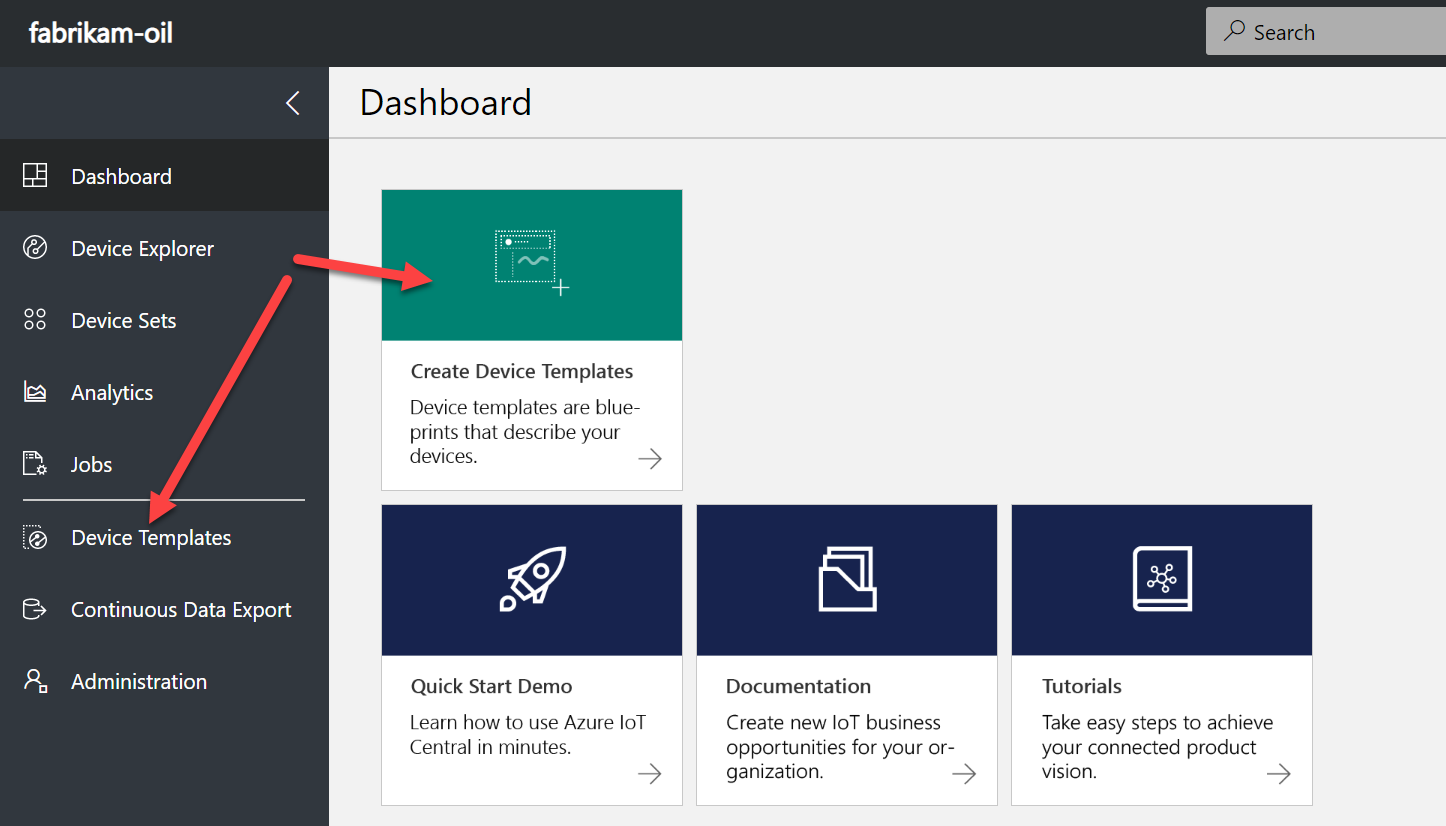
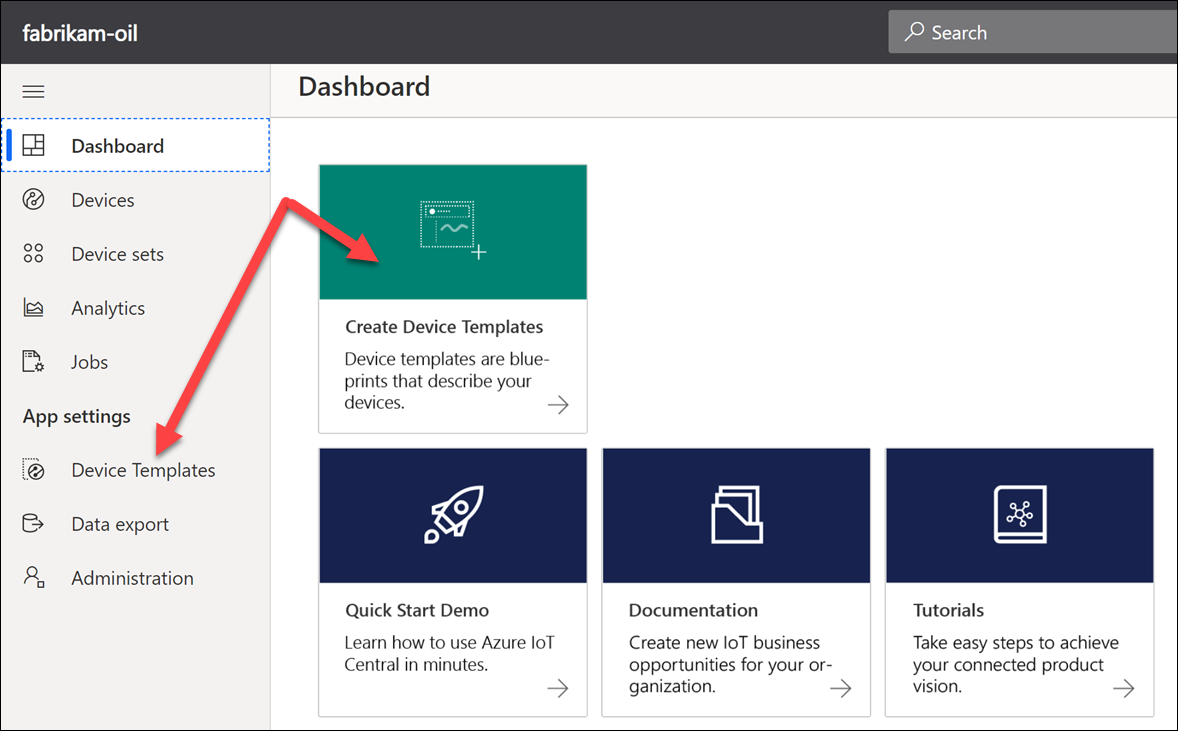
Updated task 3

diff --git a/Hands-on lab/HOL step-by step - Predictive Maintenance for remote field devices.md b/Hands-on lab/HOL step-by step - Predictive Maintenance for remote field devices.md
@@ -168,7 +168,7 @@ The telemetry being reported by the Fabrikam rod pumps are as follows, we will b
 
     b. *URL* - this will be the URL for your application, it needs to be globally unique.
 
-    c. *Application Template* - select *Preview application*.
+    c. *Application Template* - select *Legacy application (2018)*.
 
     d. *7 day free trial* - select this option to enable the free trial.
 
@@ -240,11 +240,11 @@ The telemetry being reported by the Fabrikam rod pumps are as follows, we will b
 
 12. Create a command as follows, and press _save_:
 
-    a. _Display Name_ - _Toggle Motor Power_
-    b. _Field Name_ - _MotorPower_
-    c. _Default Timeout_ - _30_
-    d. _Data Type_ - _toggle_
-    e. _Description_ - _Toggle the motor power of the pump on and off_
+    1. _Display Name_ - _Toggle Motor Power_
+    2. _Field Name_ - _MotorPower_
+    3. _Default Timeout_ - _30_
+    4. _Data Type_ - _toggle_
+    5. _Description_ - _Toggle the motor power of the pump on and off_
 
     ![The screen shows the configure command options. The save button is circled.](media/template-configure-command.png "Configure Command")
 
@@ -270,7 +270,7 @@ The telemetry being reported by the Fabrikam rod pumps are as follows, we will b
 
     ![A Rod Pump 1 device is displayed. The device picture has focus.](media/device-template-thumbnail.png "Device Template Thumbnail")
 
-17. Review the application template by viewing its simulated device. IoT Central automatically creates a simulated device based on the template you've created. From the left-hand menu, select _Device Explorer_. In this list you will see a simulated device for the template that we have just created. Select the link for this simulated device, the charts will show a sampling of simulated data.
+17. Review the application template by viewing its simulated device. IoT Central automatically creates a simulated device based on the template you've created. From the left-hand menu, select _Devices_. In this list you will see a simulated device for the template that we have just created. Select the link for this simulated device, the charts will show a sampling of simulated data.
 
     ![A rod pump list is displayed. Rod Pump 1 is circled.](media/iot-central-simulated-rod-pump.png "Device List - Simulated")
 
